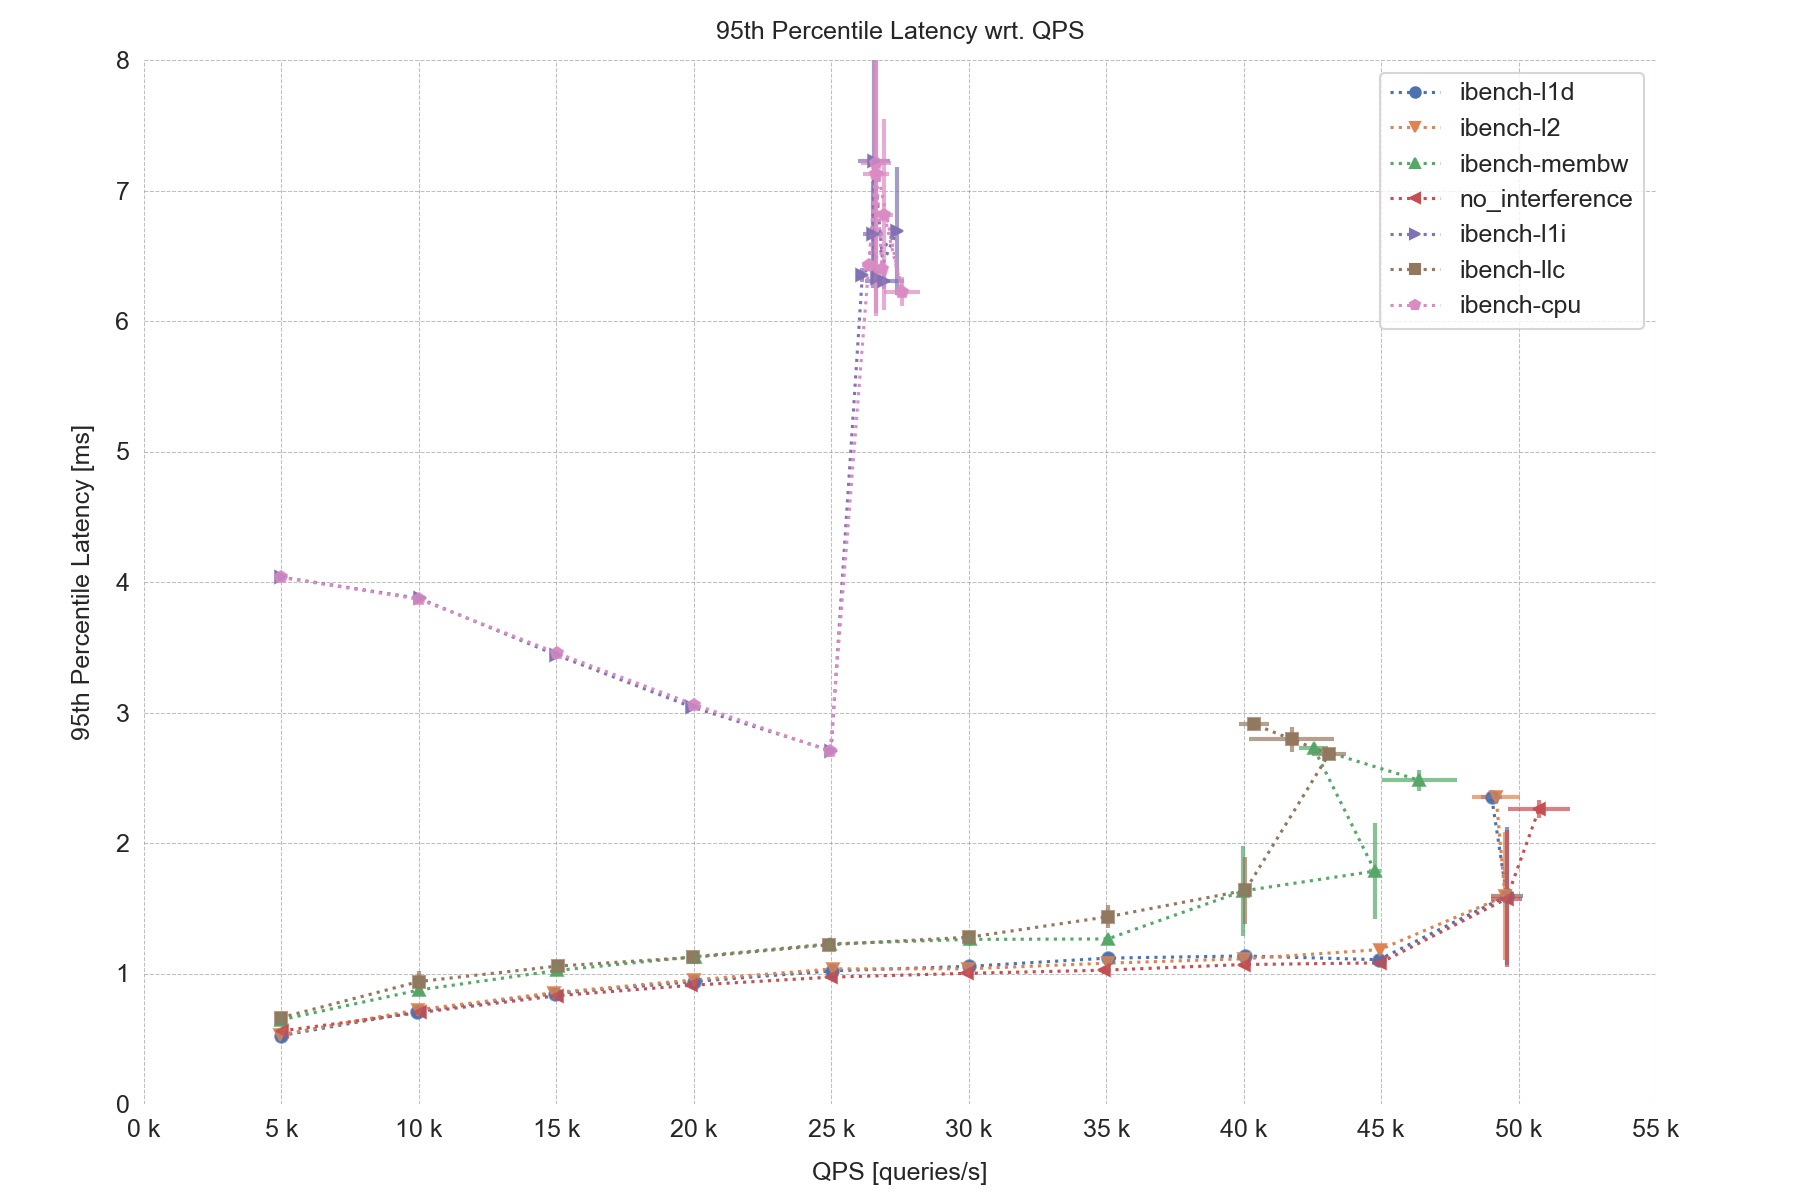
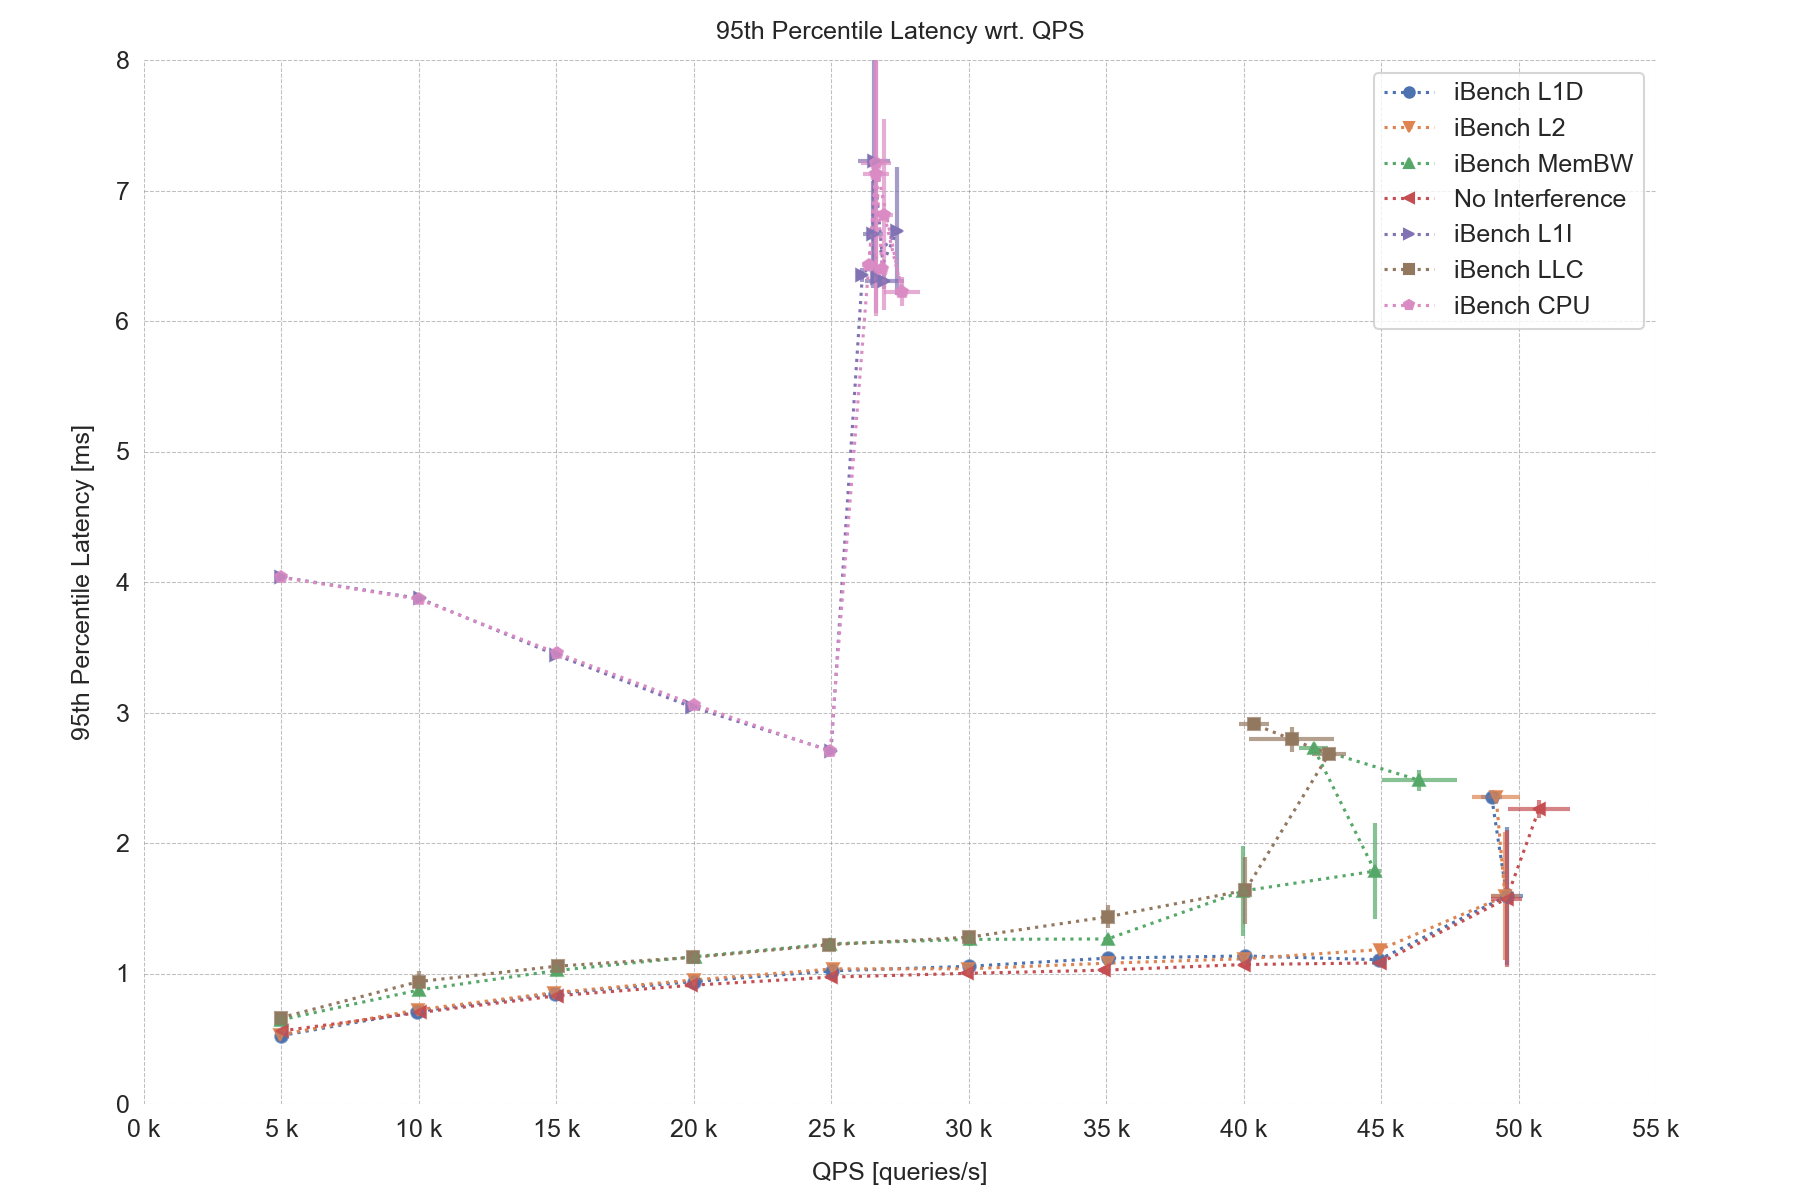
add final plotting code

Changed region(s): [[0.8089, 0.0617, 0.9022, 0.2775]]

diff --git a/scripts/plot_task2b.py b/scripts/plot_task2b.py
@@ -47,7 +47,7 @@ def plt_setup(xlim, ylim, title=None, xlabel=None, ylabel=None):
     plt.xlim(xlim)
     plt.ylim(ylim)
     plt.xticks([1, 2, 4, 8])
-    plt.yticks([1, 2, 3, 4, 5, 6, 7, 8, 9, 10])
+    plt.yticks([1, 2, 3, 4, 5, 6, 7])
     plt.xlabel(xlabel or "Number of Threads", labelpad=10, fontsize=12)  # Adjust labelpad and fontsize
     plt.ylabel(ylabel or "Speedup", labelpad=10, fontsize=12)
     plt.title(title or "Speedup when using multiple threads", pad=10, fontsize=12)
@@ -62,7 +62,7 @@ def main():
     base_folder = "results/task2b"
     thread_counts = [1, 2, 4, 8]
 
-    plt_setup(xlim=(0.925, 8.075), ylim=(0.5, 11))
+    plt_setup(xlim=(0.925, 8.075), ylim=(0.5, 7))
     colors = cycle(plt.rcParams["axes.prop_cycle"].by_key()["color"])
 
     folder_names = ["radix", "freqmine", "vips", "ferret", "blackscholes", "dedup", "canneal"]

diff --git a/scripts/plot_task1.py b/scripts/plot_task1.py
@@ -8,6 +8,16 @@ import seaborn as sns
 
 MARKERS = ["o", "v", "^", "<", ">", "s", "p", "*", "h", "H", "D", "d", "P", "X"]
 
+label_mapping = {
+    "ibench-l1d": "iBench L1D",
+    "ibench-l2": "iBench L2",
+    "ibench-membw": "iBench MemBW",
+    "no_interference": "No Interference",
+    "ibench-l1i": "iBench L1I",
+    "ibench-llc": "iBench LLC",
+    "ibench-cpu": "iBench CPU",
+}
+
 
 def load_run_data(file_path: str) -> pd.DataFrame:
     df = pd.read_csv(file_path, delimiter=" ", skipinitialspace=True, skipfooter=2, engine="python")
@@ -78,7 +88,7 @@ if __name__ == "__main__":
             qps_std,
             p95_std,
             marker=MARKERS[i % len(MARKERS)],
-            label=f"{benchmark}",
+            label=f"{label_mapping[benchmark]}",
             color=next(colors),
         )
     plt.legend(loc="upper right")
